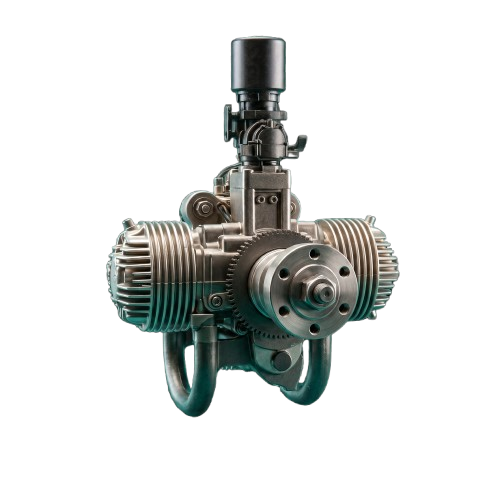
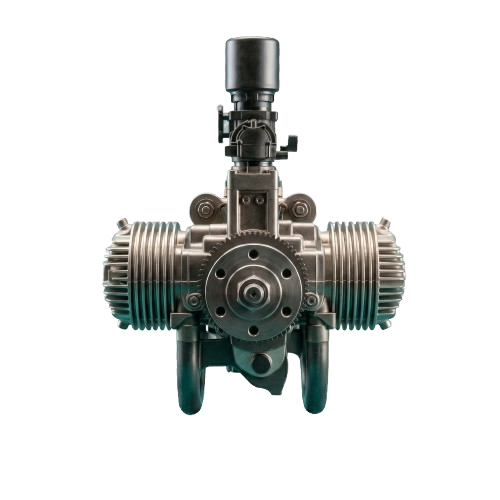
fix: new motor.png with centered drive shaft, retarget propeller anchor
Drive shaft now sits at canvas center horizontally, slightly above
center vertically. Propeller anchor moves from 58%/54% to 50%/46%.

Changed region(s): [[0.18, 0.06, 0.81, 0.84]]

diff --git a/index.html b/index.html
@@ -2001,8 +2001,8 @@ p{ margin:0; color:var(--ink-1); }
 .flight-propeller-image{
   position: absolute;
   /* Anchor where the engine drive shaft sits in motor.png */
-  top: 54%;
-  left: 58%;
+  top: 46%;
+  left: 50%;
   width: 85%;
   height: auto;
   aspect-ratio: 1 / 1;